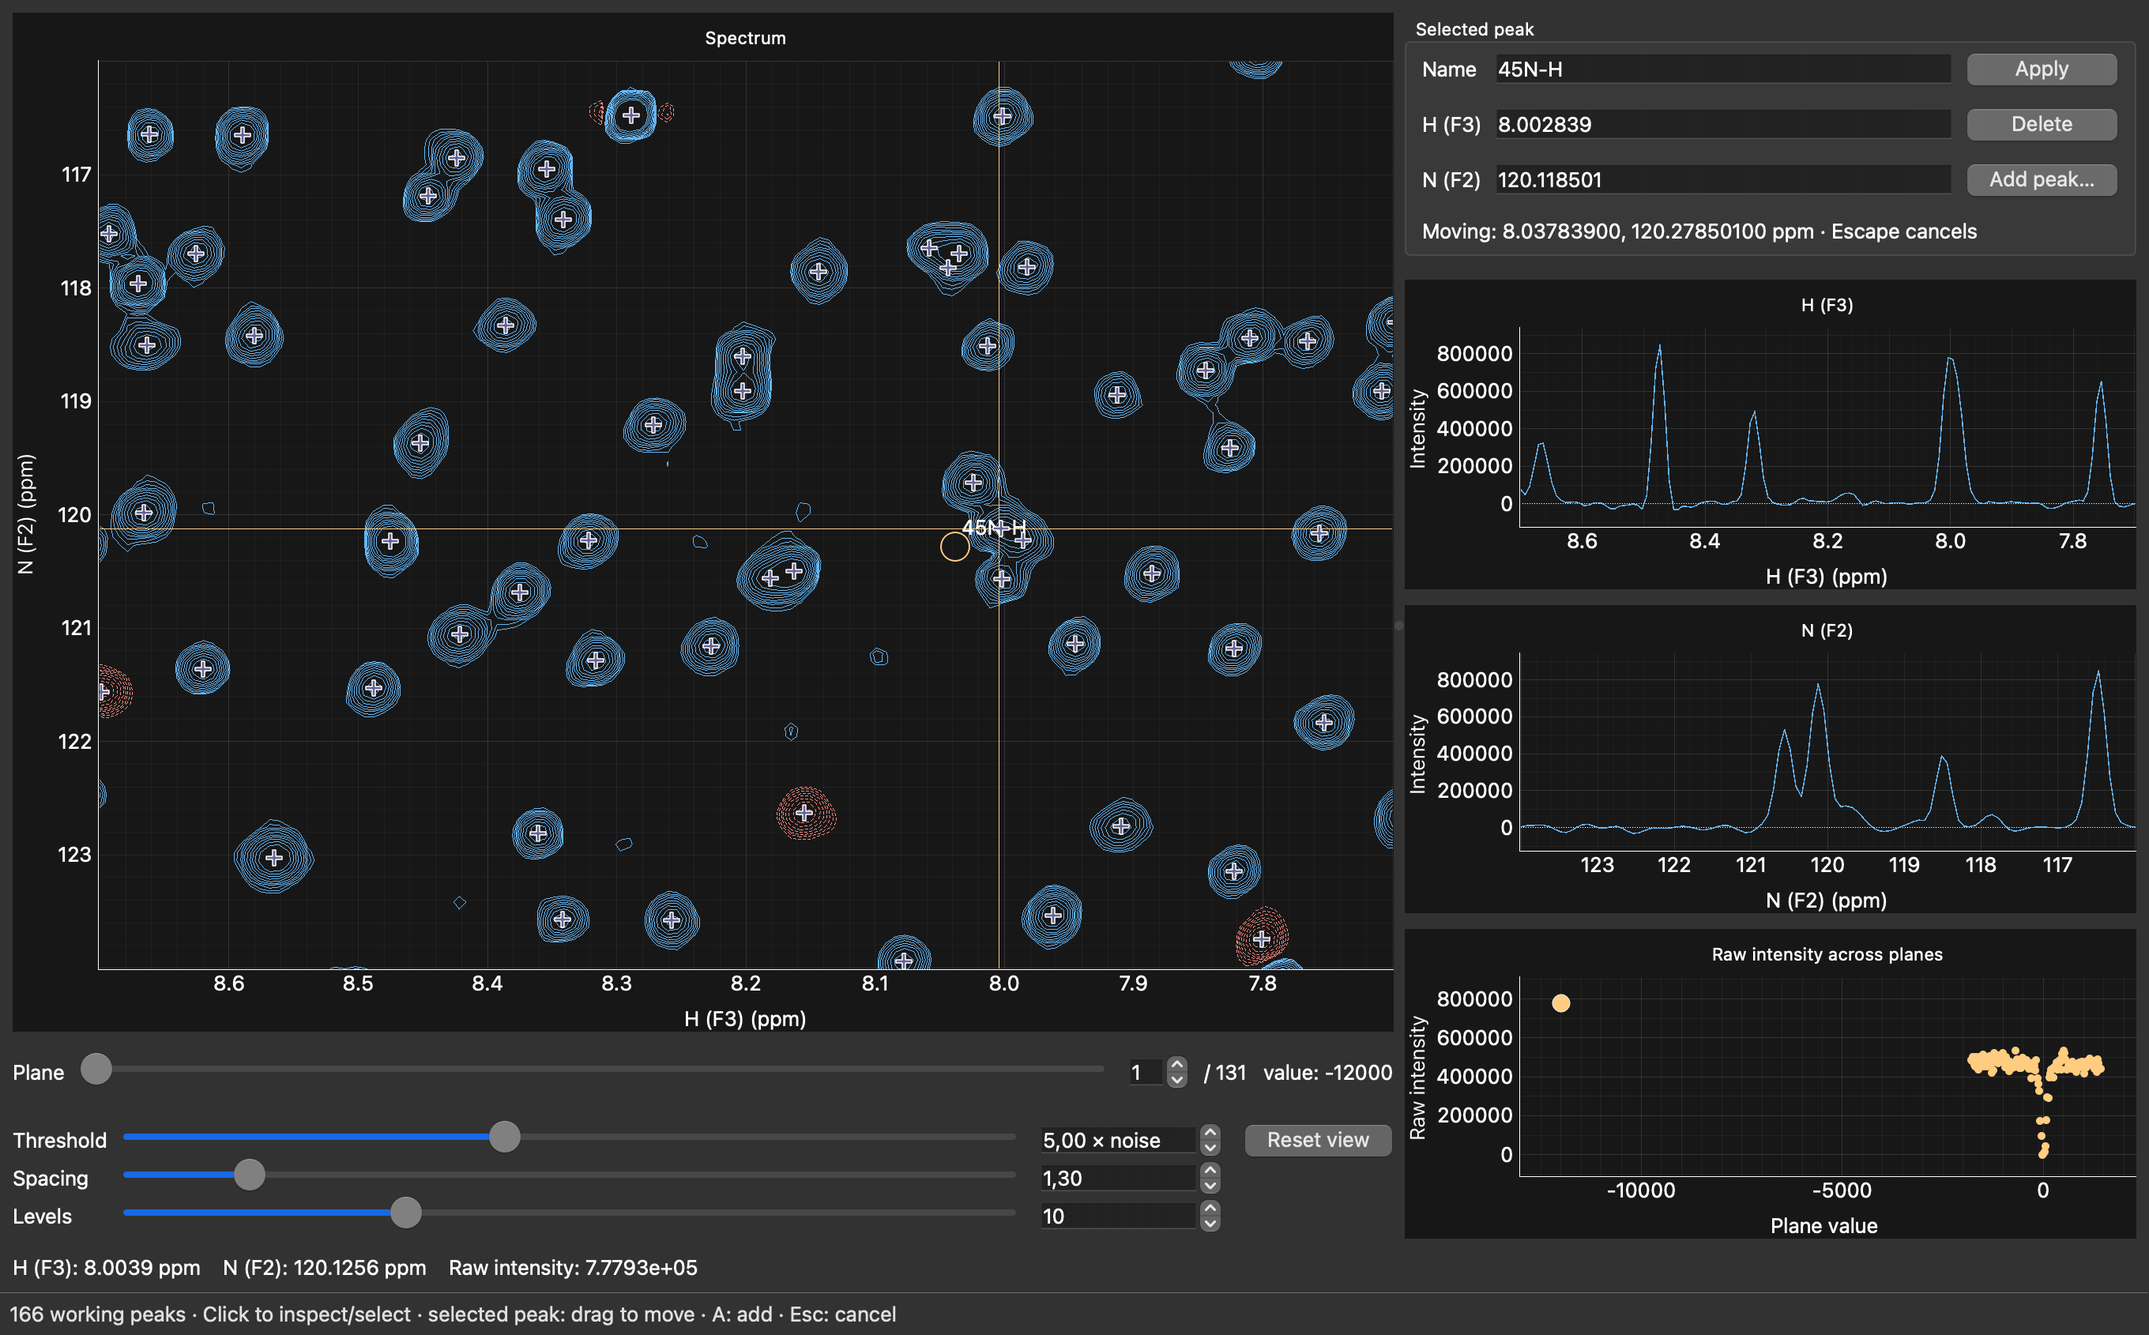
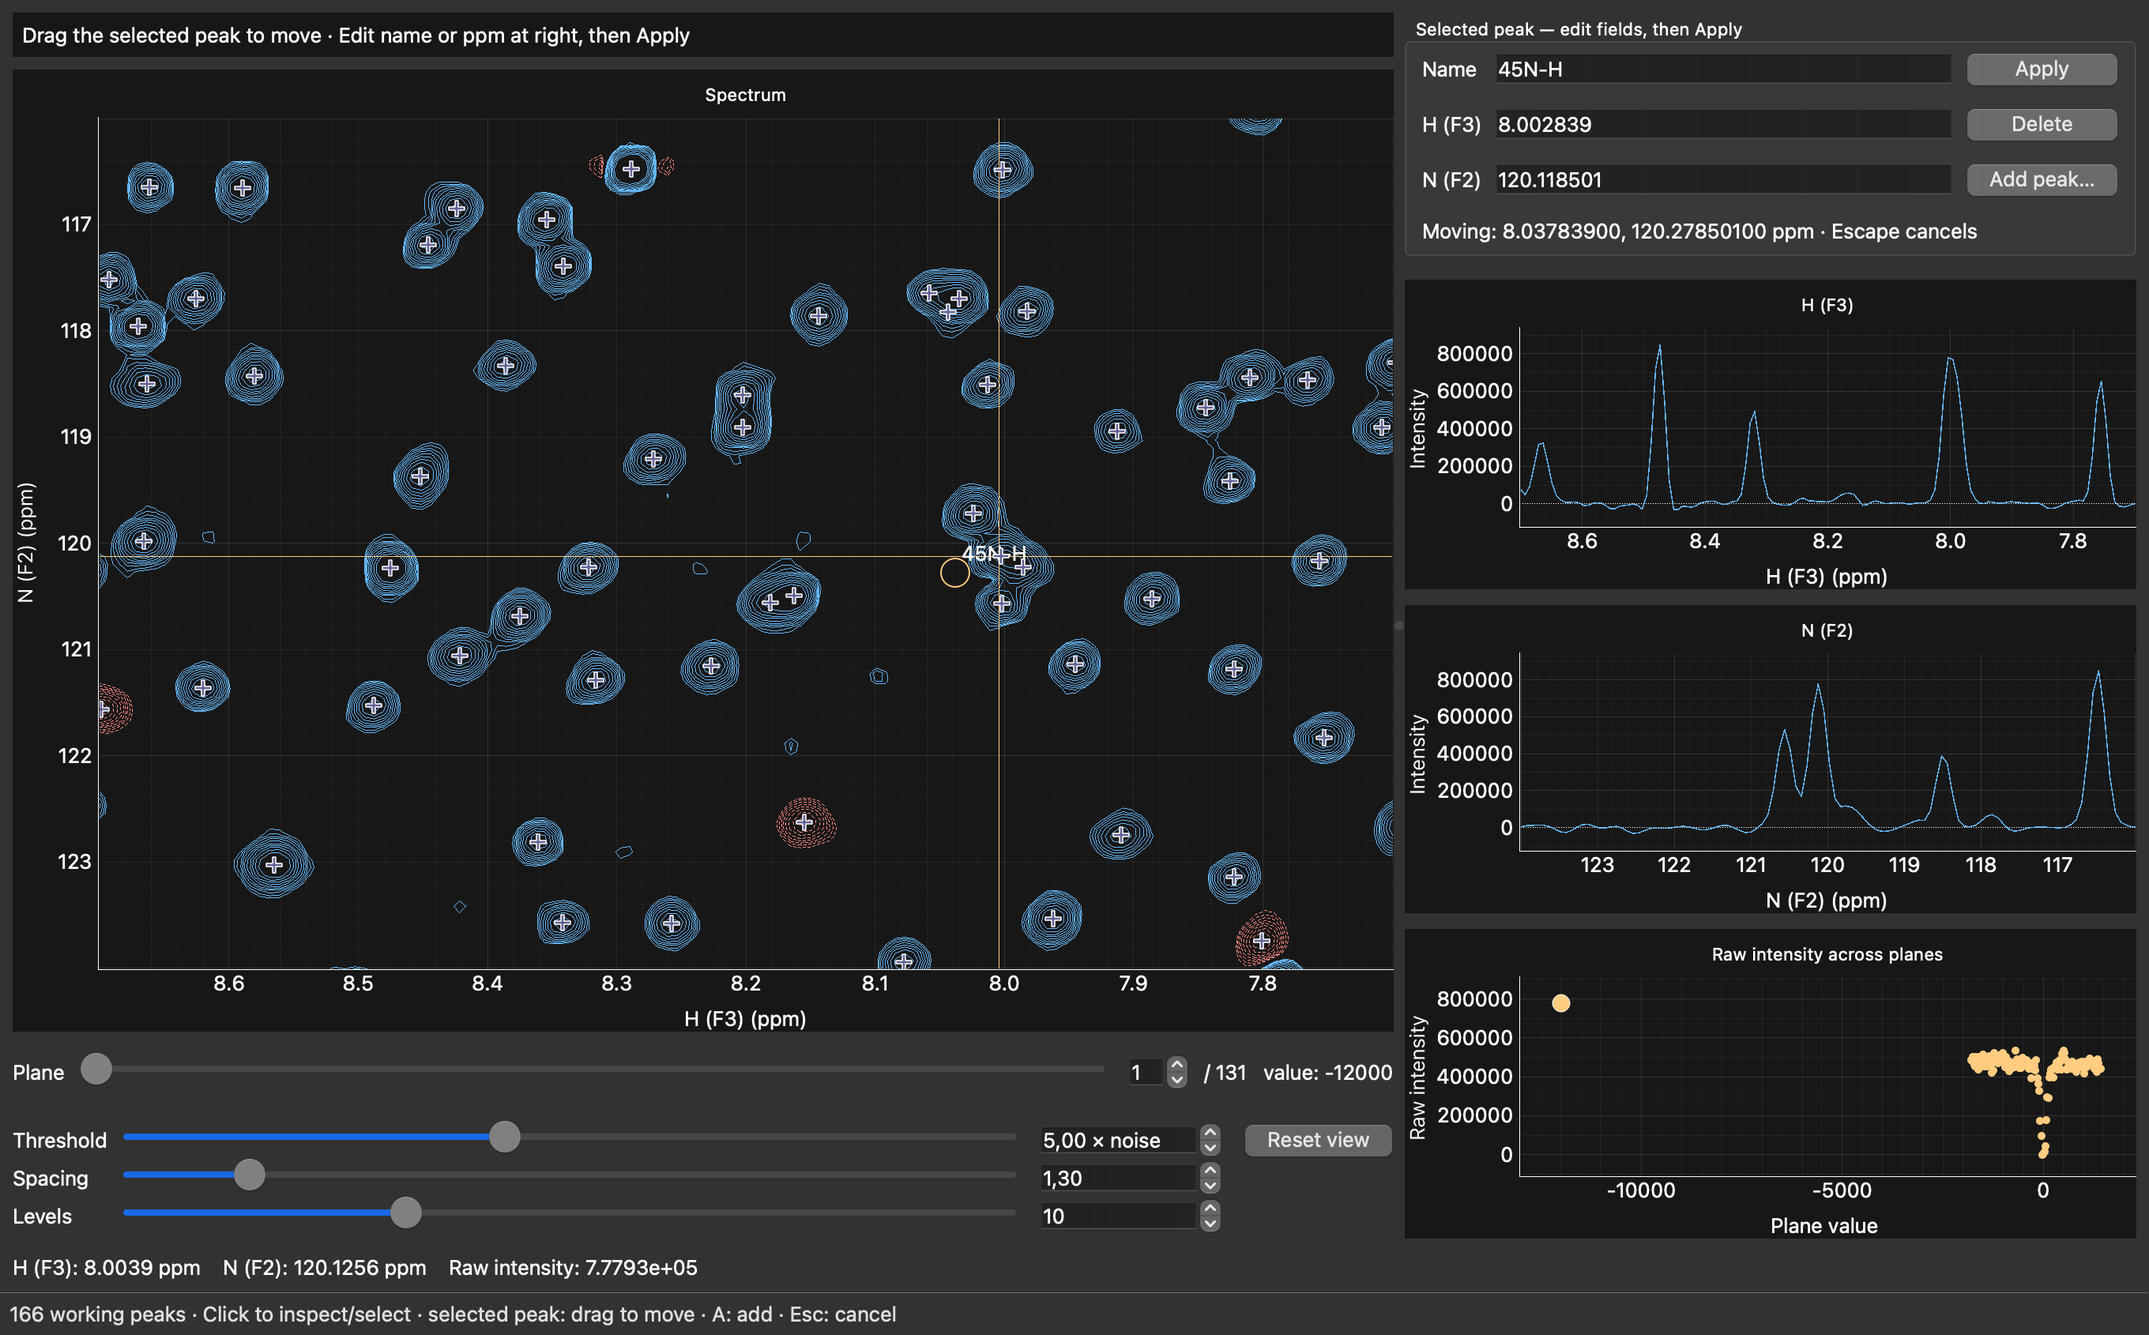
gui: finish placement before committing peaks and clarify editing controls

diff --git a/tests/test_gui_viewer.py b/tests/test_gui_viewer.py
@@ -1,5 +1,6 @@
 """Small scientific handoff regressions for the read-only spectrum viewer."""
 
+import sys
 from pathlib import Path
 
 import nmrglue as ng
@@ -332,6 +333,137 @@ def test_export_and_loss_guards_include_typed_fields_and_keep_failed_saves_dirty
         assert not window._export_peaks()
         assert window.isWindowModified()
         assert load_peaks(path, viewer.spectra)[0].positions == restored[0].positions
+    finally:
+        viewer.edits.mark_saved()
+        viewer.inspector.show_peak(None)
+        window.close()
+        window.deleteLater()
+        app.processEvents()
+
+
+def test_add_peak_lifecycle_and_editing_sequence(tmp_path: Path, monkeypatch) -> None:  # noqa: PLR0915
+    app = QtWidgets.QApplication.instance() or QtWidgets.QApplication([])
+    window = PeakFitWindow()
+    window.open_spectrum(DATA / "pseudo3d.ft2", DATA / "pseudo3d.list")
+    viewer = window.viewer
+    assert viewer is not None
+    window.show()
+    viewer.spectrum_plot.getViewBox().setRange(xRange=(7.8, 8.8), yRange=(122, 128), padding=0)
+    app.processEvents()
+    viewport = viewer.spectrum_plot.viewport()
+    add = next(
+        b for b in viewer.inspector.findChildren(QtWidgets.QPushButton) if b.text() == "Add peak…"
+    )
+    callback_errors = []
+    monkeypatch.setattr(sys, "excepthook", lambda *error: callback_errors.append(error))
+
+    def location(x, y):
+        return viewer.spectrum_plot.mapFromScene(
+            viewer.spectrum_plot.getViewBox().mapViewToScene(QtCore.QPointF(x, y))
+        )
+
+    try:
+        for index in range(2):
+            QtTest.QTest.mouseClick(add, QtCore.Qt.MouseButton.LeftButton)
+            assert viewer.adding_peak
+            assert not viewer.inspector.name.isEnabled()
+            QtTest.QTest.mouseClick(
+                viewport, QtCore.Qt.MouseButton.LeftButton, pos=location(8.4 + index * 0.1, 125.4)
+            )
+            assert len(viewer.peaks) == 167 + index
+            assert len(viewer.peak_labels) == len(viewer.peaks)
+            assert len(viewer.peak_scatter.points()) == len(viewer.peaks)
+            assert not callback_errors
+            assert not viewer.adding_peak
+            assert viewer.selected_id == viewer.peaks[-1].id
+            assert viewer.inspector.name.isEnabled()
+            assert not add.isChecked()
+        # Placement is visible and cancelable without adding a record or changing graphics.
+        QtTest.QTest.mouseClick(add, QtCore.Qt.MouseButton.LeftButton)
+        assert add.isChecked()
+        assert add.text() == "Cancel placement"
+        assert "PLACING PEAK" in viewer.interaction_hint.text()
+        QtTest.QTest.mouseClick(add, QtCore.Qt.MouseButton.LeftButton)
+        assert not viewer.adding_peak
+        QtTest.QTest.mouseClick(add, QtCore.Qt.MouseButton.LeftButton)
+        QtTest.QTest.keyClick(viewer.spectrum_plot, QtCore.Qt.Key.Key_Escape)
+        assert not viewer.adding_peak
+        assert len(viewer.peaks) == 168
+        assert len(viewer.peak_labels) == 168
+        added = viewer.peaks[-1]
+        # Select with a real click after first clicking empty background.
+        QtTest.QTest.mouseClick(
+            viewport, QtCore.Qt.MouseButton.LeftButton, pos=location(8.0, 127.6)
+        )
+        assert viewer.selected_id is None
+        start = location(added.positions[1], added.positions[0])
+        QtTest.QTest.mouseClick(viewport, QtCore.Qt.MouseButton.LeftButton, pos=start)
+        assert viewer.selected_id == added.id
+        QtTest.QTest.mouseMove(viewport, start)
+        QtTest.QTest.qWait(30)
+        QtTest.QTest.mousePress(viewport, QtCore.Qt.MouseButton.LeftButton, pos=start)
+        end = start + QtCore.QPoint(30, 15)
+        QtWidgets.QApplication.sendEvent(
+            viewport,
+            QtGui.QMouseEvent(
+                QtCore.QEvent.Type.MouseMove,
+                QtCore.QPointF(end),
+                QtCore.QPointF(viewport.mapToGlobal(end)),
+                QtCore.Qt.MouseButton.NoButton,
+                QtCore.Qt.MouseButton.LeftButton,
+                QtCore.Qt.KeyboardModifier.NoModifier,
+            ),
+        )
+        assert viewer.peaks[-1] == added  # preview is not a committed edit
+        QtTest.QTest.mouseRelease(viewport, QtCore.Qt.MouseButton.LeftButton, pos=end)
+        moved = viewer.peaks[-1]
+        assert moved.positions != added.positions
+        QtTest.QTest.mouseClick(viewer.inspector.name, QtCore.Qt.MouseButton.LeftButton)
+        viewer.inspector.name.selectAll()
+        QtTest.QTest.keyClicks(viewer.inspector.name, "Native sequence")
+        QtTest.QTest.mouseClick(viewer.inspector.apply, QtCore.Qt.MouseButton.LeftButton)
+        assert viewer.peaks[-1].name == "Native sequence"
+        QtTest.QTest.keySequence(
+            viewer.spectrum_plot, QtGui.QKeySequence(QtGui.QKeySequence.StandardKey.Undo)
+        )
+        assert viewer.peaks[-1] == moved  # undo rename, keep the completed move
+        path = tmp_path / "manual.csv"
+        original_exec = QtWidgets.QFileDialog.exec
+
+        def export_dialog(dialog):
+            # Exercise the save dialog with Qt events; native OS dialog appearance is manual QA.
+            dialog.setOption(QtWidgets.QFileDialog.Option.DontUseNativeDialog)
+            dialog.setDirectory(str(tmp_path))
+
+            def enter_filename():
+                field = dialog.findChild(QtWidgets.QLineEdit, "fileNameEdit")
+                assert field is not None
+                QtTest.QTest.mouseClick(field, QtCore.Qt.MouseButton.LeftButton)
+                field.selectAll()
+                QtTest.QTest.keyClicks(field, path.name)
+                assert field.text() == path.name
+                assert dialog.selectedFiles() == [str(path)]
+                QtTest.QTest.keyClick(field, QtCore.Qt.Key.Key_Tab)
+                buttons = dialog.findChild(QtWidgets.QDialogButtonBox)
+                assert buttons is not None
+                save = buttons.button(QtWidgets.QDialogButtonBox.StandardButton.Save)
+                assert save is not None
+                QtTest.QTest.mouseClick(save, QtCore.Qt.MouseButton.LeftButton)
+
+            QtCore.QTimer.singleShot(0, enter_filename)
+            QtCore.QTimer.singleShot(3000, dialog.reject)
+            return original_exec(dialog)
+
+        monkeypatch.setattr(QtWidgets.QFileDialog, "exec", export_dialog)
+        QtTest.QTest.keySequence(window, QtGui.QKeySequence(QtGui.QKeySequence.StandardKey.Save))
+        assert not callback_errors
+        restored = load_peaks(path, viewer.spectra)
+        assert [(p.name, p.positions) for p in restored] == [
+            (p.name, p.positions) for p in viewer.peaks
+        ]
+        assert not window.isWindowModified()
+        assert len(viewer.peak_labels) == len(viewer.peak_scatter.points()) == 168
+        assert not callback_errors
     finally:
         viewer.edits.mark_saved()
         viewer.inspector.show_peak(None)

diff --git a/src/peakfit/gui/viewer.py b/src/peakfit/gui/viewer.py
@@ -64,7 +64,8 @@ class SpectrumViewer(QtWidgets.QWidget):
         self.undo_action.triggered.connect(self.undo)
         self.redo_action.triggered.connect(self.redo)
         self.add_action = QtGui.QAction("Add peak…", self)
-        self.add_action.triggered.connect(self.start_adding_peak)
+        self.add_action.setCheckable(True)
+        self.add_action.triggered.connect(self._toggle_peak_placement)
         self.edit_actions = [self.undo_action, self.redo_action, self.add_action]
         for action in self.edit_actions:
             self.addAction(action)
@@ -79,6 +80,7 @@ class SpectrumViewer(QtWidgets.QWidget):
             shortcut.activated.connect(callback)
         self.edits_changed.connect(self._update_edit_actions)
         self._update_edit_actions()
+        self._update_interaction_hint()
 
     def _update_edit_actions(self) -> None:
         pending = self.inspector.pending
@@ -171,6 +173,10 @@ class SpectrumViewer(QtWidgets.QWidget):
             "Drag to pan; scroll to zoom. Click to position the crosshair; "
             "drag either crosshair line."
         )
+        self.interaction_hint = QtWidgets.QLabel()
+        self.interaction_hint.setMargin(6)
+        self.interaction_hint.setAutoFillBackground(True)
+        left_layout.addWidget(self.interaction_hint)
         left_layout.addWidget(self.spectrum_plot, 1)
         self.cross_x = pg.InfiniteLine(angle=90, movable=True, pen=pg.mkPen("#a65e00"))
         self.cross_y = pg.InfiniteLine(angle=0, movable=True, pen=pg.mkPen("#a65e00"))
@@ -210,10 +216,10 @@ class SpectrumViewer(QtWidgets.QWidget):
         self.inspector.applied.connect(self._apply_peak_fields)
         self.inspector.fields_changed.connect(self.edits_changed)
         self.inspector.deleted.connect(self.delete_peak)
-        add = QtWidgets.QPushButton("Add peak…")
-        add.setToolTip("Place one peak at the next click (A in the spectrum); Escape cancels")
-        add.clicked.connect(self.start_adding_peak)
-        cast("QtWidgets.QGridLayout", self.inspector.layout()).addWidget(add, 2, 2)
+        self.add_peak_button = QtWidgets.QPushButton("Add peak…")
+        self.add_peak_button.setCheckable(True)
+        self.add_peak_button.clicked.connect(self._toggle_peak_placement)
+        cast("QtWidgets.QGridLayout", self.inspector.layout()).addWidget(self.add_peak_button, 2, 2)
         right_layout.addWidget(self.inspector)
         self.trace_x = self._plot(self._axis_title(self.x_axis))
         self.trace_y = self._plot(self._axis_title(self.y_axis))
@@ -413,8 +419,10 @@ class SpectrumViewer(QtWidgets.QWidget):
         if view.sceneBoundingRect().contains(event.scenePos()):
             point = view.mapSceneToView(event.scenePos())
             if self.adding_peak:
-                peak = self.edits.add((point.y(), point.x()))
+                # End placement while working records and graphics still agree.
+                # Only then commit, rebuild graphics, and select the added peak.
                 self.cancel_interaction()
+                peak = self.edits.add((point.y(), point.x()))
                 self.selected_id = peak.id
                 self._refresh_peaks()
                 self.edits_changed.emit()
@@ -544,6 +552,7 @@ class SpectrumViewer(QtWidgets.QWidget):
         )
         self.inspector.show_peak(peak, position)
         self.show_peak_labels(self.labels_visible)
+        self._update_interaction_hint()
         if peak and inspect:
             self._select_position(*position)
 
@@ -598,9 +607,56 @@ class SpectrumViewer(QtWidgets.QWidget):
         self._refresh_peaks()
         self.edits_changed.emit()
 
+    def _toggle_peak_placement(self) -> None:
+        if self.adding_peak:
+            self.cancel_interaction()
+        else:
+            self.start_adding_peak()
+
+    def _update_interaction_hint(self) -> None:
+        if self.adding_peak:
+            text = "PLACING PEAK · Click in spectrum · Cancel placement or Esc to stop"
+        elif self.selected_id is not None:
+            text = "Drag the selected peak to move · Edit name or ppm at right, then Apply"
+        else:
+            text = "Click a peak to select · Drag background to pan · Scroll to zoom"
+        self.interaction_hint.setText(text)
+        self.interaction_hint.setBackgroundRole(
+            QtGui.QPalette.ColorRole.Highlight
+            if self.adding_peak
+            else QtGui.QPalette.ColorRole.Base
+        )
+        self.interaction_hint.setForegroundRole(
+            QtGui.QPalette.ColorRole.HighlightedText
+            if self.adding_peak
+            else QtGui.QPalette.ColorRole.Text
+        )
+        # Resolve placement before editing another assignment; Cancel stays available.
+        for field in (
+            self.inspector.name,
+            self.inspector.x_field,
+            self.inspector.y_field,
+            self.inspector.apply,
+            self.inspector.delete,
+        ):
+            field.setEnabled(self.selected_id is not None and not self.adding_peak)
+        self.inspector.delete.setEnabled(
+            self.selected_id is not None and not self.adding_peak and not self.inspector.pending
+        )
+        self.add_peak_button.setChecked(self.adding_peak)
+        self.add_peak_button.setText("Cancel placement" if self.adding_peak else "Add peak…")
+        self.add_peak_button.setToolTip(
+            "Cancel placement (Escape)"
+            if self.adding_peak
+            else "Click here, then click the spectrum to place one peak (A with spectrum focus)"
+        )
+        self.add_action.setChecked(self.adding_peak)
+        self.add_action.setText("Cancel peak placement" if self.adding_peak else "Add peak…")
+
     def start_adding_peak(self) -> None:
         """Arm a single placement without a persistent editing mode."""
         if not self.apply_pending_fields():
+            self._update_interaction_hint()
             return
         self.cancel_interaction()
         self.adding_peak = True
@@ -609,7 +665,10 @@ class SpectrumViewer(QtWidgets.QWidget):
             line.setMovable(False)
         self.spectrum_plot.setCursor(QtCore.Qt.CursorShape.CrossCursor)
         self.spectrum_plot.setFocus()
-        self.inspector.details.setText("Click to add one peak · Escape cancels · drag to pan")
+        self.inspector.details.setText(
+            "Click in the spectrum to place one peak; panning and zoom still work."
+        )
+        self._update_interaction_hint()
 
     def cancel_interaction(self) -> None:
         """Discard a drag preview or uncommitted placement."""

diff --git a/src/peakfit/gui/editing.py b/src/peakfit/gui/editing.py
@@ -20,7 +20,7 @@ class PeakInspector(QtWidgets.QGroupBox):
     fields_changed = QtCore.Signal()
 
     def __init__(self, x_title: str, y_title: str) -> None:
-        super().__init__("Peak — click a marker to select")
+        super().__init__("Peak editing — select a marker")
         layout = QtWidgets.QGridLayout(self)
         layout.setContentsMargins(8, 4, 8, 4)
         self.name = QtWidgets.QLineEdit()
@@ -30,6 +30,9 @@ class PeakInspector(QtWidgets.QGroupBox):
         self.details.setTextFormat(QtCore.Qt.TextFormat.PlainText)
         self.details.setWordWrap(True)
         self.apply = QtWidgets.QPushButton("Apply")
+        self.apply.setToolTip(
+            "Apply the name and both unfolded ppm coordinates (Enter); Escape restores them"
+        )
         self.delete = QtWidgets.QPushButton("Delete")
         for row, (title, field) in enumerate(
             (("Name", self.name), (x_title, self.x_field), (y_title, self.y_field))
@@ -57,7 +60,9 @@ class PeakInspector(QtWidgets.QGroupBox):
         self._peak = peak
         for control in (self.name, self.x_field, self.y_field, self.apply, self.delete):
             control.setEnabled(peak is not None)
-        self.setTitle("Selected peak" if peak else "Peak — click a marker to select")
+        self.setTitle(
+            "Selected peak — edit fields, then Apply" if peak else "Peak editing — select a marker"
+        )
         for field, value in zip(
             (self.name, self.x_field, self.y_field),
             (peak.name, repr(peak.positions[1]), repr(peak.positions[0])) if peak else ("", "", ""),

diff --git a/docs/gui.md b/docs/gui.md
@@ -62,9 +62,12 @@ Edit → Undo/Redo restores working records without affecting spectrum navigatio
 Peak-history Undo/Redo and peak deletion are unavailable while inspector text is
 pending. Apply the text or press Escape to restore the committed fields first;
 an inline hint explains this. Native text-field undo remains available.
-Choose **Add peak…** (or A with spectrum focus), then click once to place a peak;
-Escape cancels. Select a peak before dragging it: an open-hand cursor advertises
-movement. The ring and label preview the new position while the original cross
+Choose **Add peak…** (or A with spectrum focus), then click once to place a peak.
+The instruction strip above the spectrum highlights **PLACING PEAK**, and the
+same button becomes **Cancel placement**; click it or press Escape to cancel.
+Inspector fields pause during placement and become editable again when it finishes.
+The strip otherwise explains selection, navigation, or editing the selected peak.
+Select a peak before dragging it: an open-hand cursor advertises movement. The ring and label preview the new position while the original cross
 remains as a reference. Release commits one undoable move; Escape restores it.
 Dragging an unselected marker pans. Peak coordinates retain fractional precision
 and dragging preserves the original unfolded chemical-shift representation.
@@ -93,6 +96,8 @@ are newly allocated on import; they are not scientific parameter identifiers.
 ![Manual peak editing on the bundled experimental spectrum](images/peak-editing.png)
 
 [Drag preview with the original marker retained](images/peak-editing-drag.png).
+
+![Highlighted one-shot placement and cancel control](images/peak-placement.png)
 
 ## Scope and performance
 
